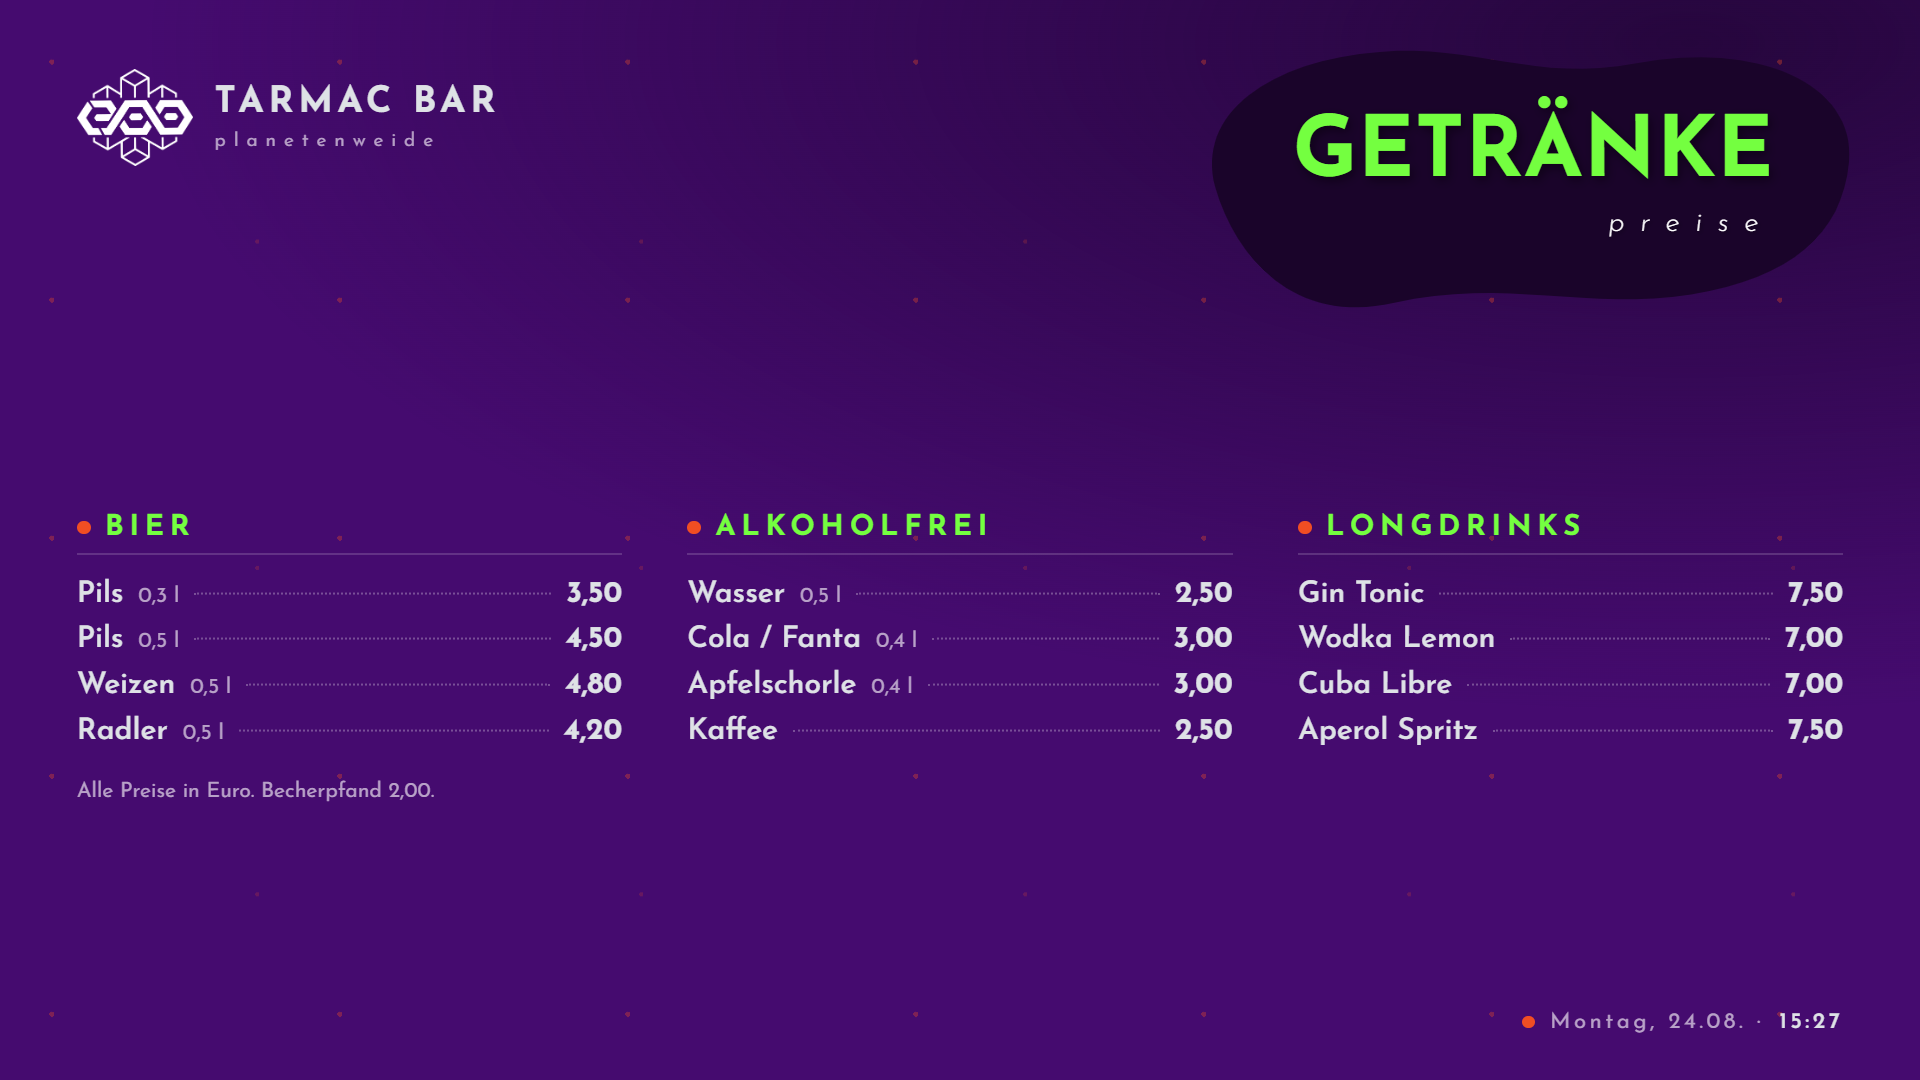
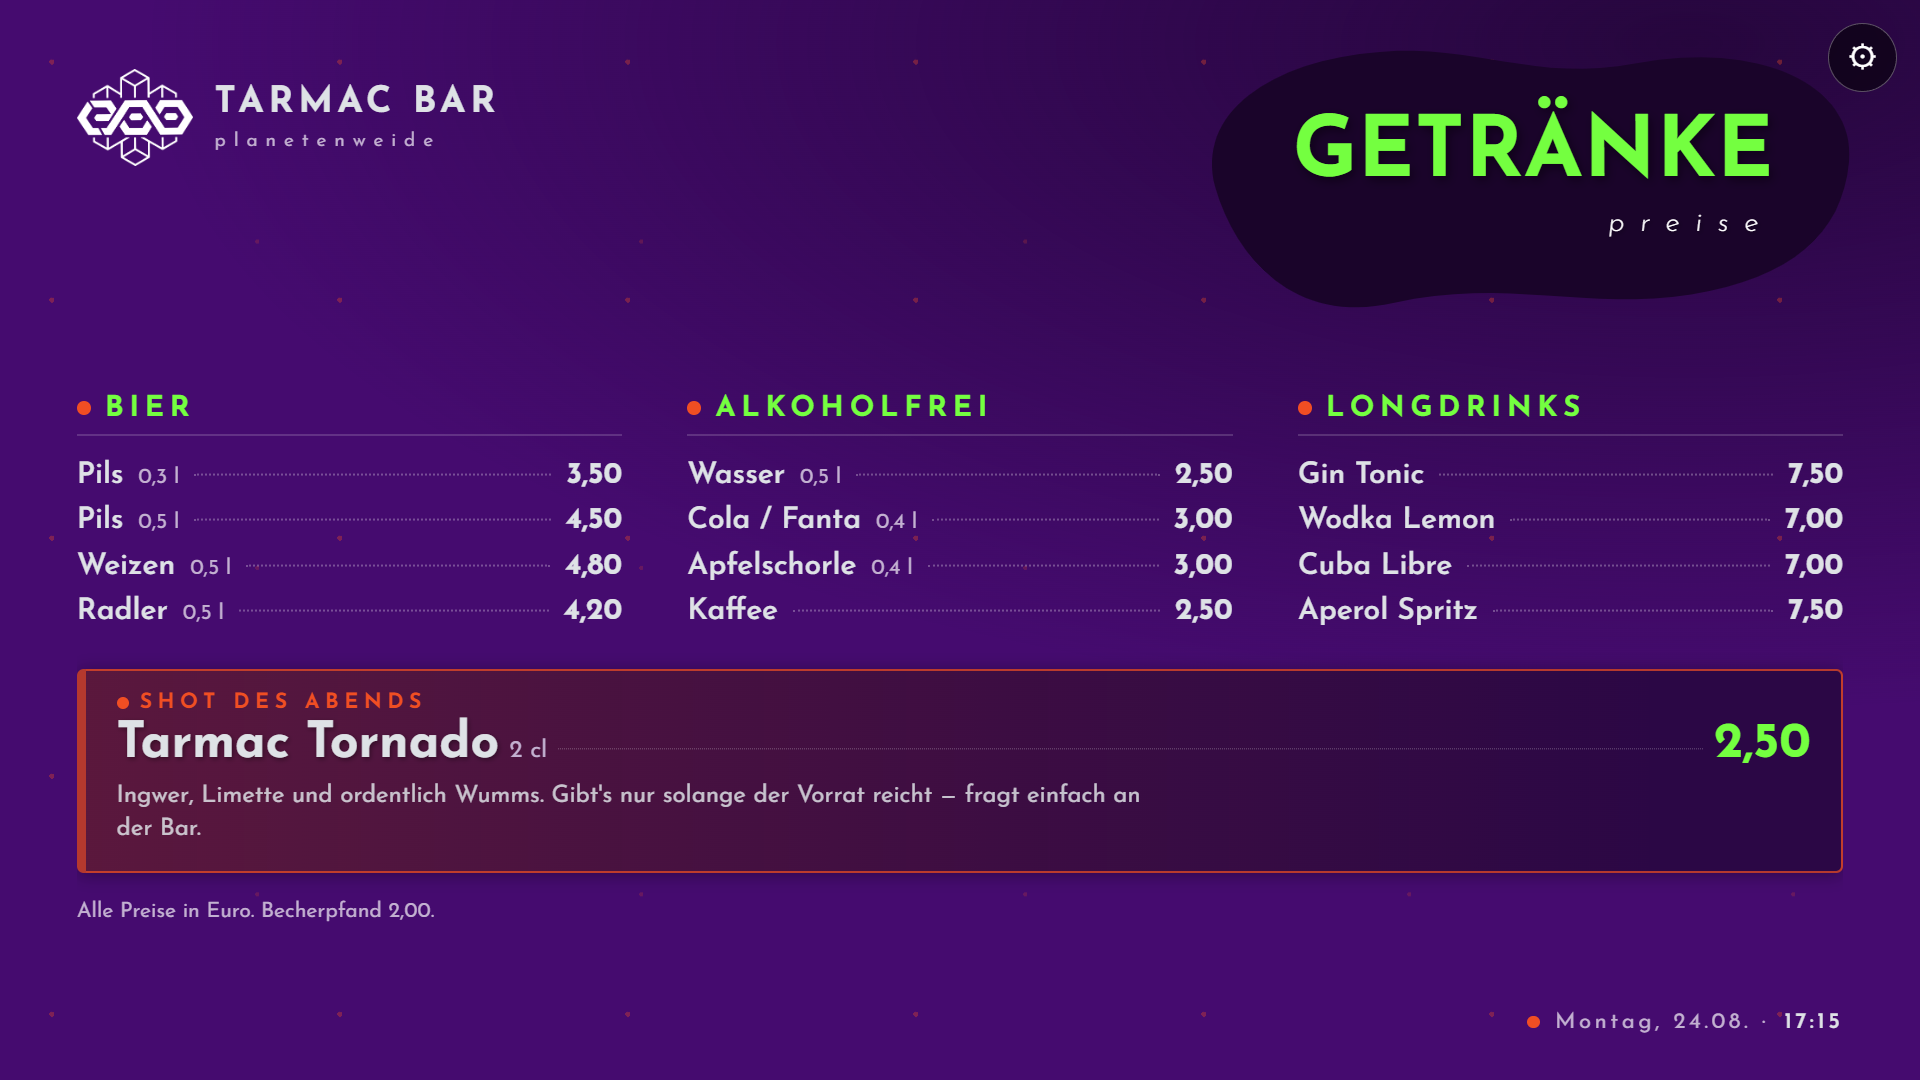
Spezialshot: hervorgehobenes Band unter den Preisspalten
Über die volle Breite, in der Signalfarbe abgesetzt, mit eigener Überschrift,
Name, Größe, Preis und einem mehrzeiligen Beschreibungstext. Gedacht für den
Shot des Abends oder eine Aktion, die in der normalen Karte untergehen würde.

- eigener Block in der Konfiguration, per Haken an- und abschaltbar
- Überschrift frei wählbar, also auch AKTION oder HAPPY HOUR
- der Preis-Slide erscheint jetzt auch dann, wenn nur der Spezialshot
  gepflegt ist und noch keine Gruppen angelegt sind
- Karte im Reiter Getränkepreise, README und Screenshots aktualisiert

diff --git a/src/player.css b/src/player.css
@@ -409,6 +409,76 @@ body[data-pattern="confetti"] .slide {
 
 .priceNote { margin-top: 1.3em; font-size: 1.1em; color: var(--muted); }
 
+/* --------------------- Spezialshot ---------------------------------- */
+/* Volle Breite unter den Spalten, in der Signalfarbe abgesetzt, damit er
+   sich klar von der normalen Karte unterscheidet. */
+.special {
+  margin-top: 1.8em;
+  padding: 1.1em 1.6em 1.25em;
+  border-radius: 0.35em;
+  border: 0.11em solid color-mix(in srgb, var(--accent2) 70%, transparent);
+  border-left-width: 0.5em;
+  background:
+    linear-gradient(90deg,
+      color-mix(in srgb, var(--accent2) 24%, transparent),
+      color-mix(in srgb, var(--accent2) 8%, transparent) 55%,
+      transparent 90%),
+    color-mix(in srgb, var(--bg) 62%, #000);
+  box-shadow: 0 0.12em 0.9em rgba(0, 0, 0, 0.35);
+}
+
+.specialTag {
+  display: inline-flex;
+  align-items: center;
+  gap: 0.5em;
+  font-size: 1.1em;
+  font-weight: 700;
+  letter-spacing: 0.26em;
+  color: var(--accent2);
+}
+.specialTag::before {
+  content: '';
+  width: 0.6em;
+  height: 0.6em;
+  border-radius: 50%;
+  background: var(--accent2);
+}
+
+.specialRow {
+  display: flex;
+  align-items: baseline;
+  gap: 0.55em;
+  margin-top: 0.25em;
+}
+.specialName {
+  font-size: 2.6em;
+  font-weight: 700;
+  line-height: 1.05;
+  text-shadow: 0.03em 0.04em 0.1em rgba(0, 0, 0, 0.4);
+}
+.specialSize { font-size: 1.25em; color: var(--muted); white-space: nowrap; }
+.specialDots {
+  flex: 1;
+  border-bottom: 0.06em dotted rgba(255, 255, 255, 0.3);
+  transform: translateY(-0.4em);
+  min-width: 1.5em;
+}
+.specialPrice {
+  font-size: 2.6em;
+  font-weight: 700;
+  font-variant-numeric: tabular-nums;
+  color: var(--accent);
+  white-space: nowrap;
+}
+.specialText {
+  margin-top: 0.35em;
+  font-size: 1.25em;
+  line-height: 1.4;
+  color: var(--fg);
+  opacity: 0.85;
+  max-width: 70ch;
+}
+
 /* ------------------------------- Fuß ------------------------------- */
 .slideFoot {
   flex: none;

diff --git a/src/player.js b/src/player.js
@@ -98,7 +98,9 @@ function buildPlaylist() {
   const active = (cfg.videos || []).filter(v => isVideoActive(v, now));
 
   const hasTT = (cfg.timetable || []).length > 0;
-  const hasPR = (cfg.prices || []).some(c => (c.items || []).length > 0);
+  const sp = cfg.special || {};
+  const hasPR = (cfg.prices || []).some(c => (c.items || []).length > 0) ||
+                (sp.enabled && sp.name);
 
   const items = [];
   for (const v of active) {
@@ -492,12 +494,34 @@ function renderPrices() {
     body += '</div>';
   }
   body += '</div>';
+  if (!cats.length) body = '';
+
+  body += renderSpecial();
+
   if (s.priceNote) body += '<div class="priceNote">' + escapeHtml(s.priceNote) + '</div>';
-  if (!cats.length) body = '<div class="emptyNote">Preisliste noch nicht eingepflegt.</div>';
+  if (!cats.length && !body.trim()) {
+    body = '<div class="emptyNote">Preisliste noch nicht eingepflegt.</div>';
+  }
 
   return '<div class="slideInner">' +
     headHtml(s.pricesTitle || 'GETRÄNKE', s.pricesSubtitle) +
     '<div class="slideBody center">' + body + '</div>' + footHtml() + '</div>';
+}
+
+// Spezialshot: volle Breite, unter den Spalten, deutlich abgesetzt
+function renderSpecial() {
+  const sp = cfg.special || {};
+  if (!sp.enabled || !sp.name) return '';
+  return '<div class="special">' +
+    '<div class="specialTag">' + escapeHtml(sp.label || 'SPEZIALSHOT') + '</div>' +
+    '<div class="specialRow">' +
+      '<span class="specialName">' + escapeHtml(sp.name) + '</span>' +
+      (sp.size ? '<span class="specialSize">' + escapeHtml(sp.size) + '</span>' : '') +
+      '<span class="specialDots"></span>' +
+      (sp.price ? '<span class="specialPrice">' + escapeHtml(sp.price) + '</span>' : '') +
+    '</div>' +
+    (sp.text ? '<div class="specialText">' + escapeHtml(sp.text) + '</div>' : '') +
+    '</div>';
 }
 
 function renderIdle() {

diff --git a/src/settings.html b/src/settings.html
@@ -91,6 +91,41 @@
       </div>
       <div id="priceList" class="list"></div>
       <div id="priceEmpty" class="empty hidden">Noch keine Preisgruppen angelegt.</div>
+
+      <div class="card" style="margin-top:1.2rem">
+        <h2>Spezialshot</h2>
+        <p class="hint" style="margin-bottom:0.9rem">Wird unter den Preisspalten
+           &uuml;ber die volle Breite hervorgehoben &ndash; f&uuml;r den Shot des Abends
+           oder eine Aktion.</p>
+        <label class="checkline">
+          <input type="checkbox" id="sp_enabled"> <span>Spezialshot anzeigen</span>
+        </label>
+        <div class="twoCol">
+          <label class="field">
+            <span>&Uuml;berschrift</span>
+            <input type="text" id="sp_label" maxlength="30" placeholder="SPEZIALSHOT">
+          </label>
+          <label class="field">
+            <span>Name</span>
+            <input type="text" id="sp_name" maxlength="60" placeholder="z.B. Tarmac Tornado">
+          </label>
+        </div>
+        <div class="twoCol">
+          <label class="field">
+            <span>Gr&ouml;&szlig;e (optional)</span>
+            <input type="text" id="sp_size" maxlength="20" placeholder="2 cl">
+          </label>
+          <label class="field">
+            <span>Preis</span>
+            <input type="text" id="sp_price" maxlength="20" placeholder="2,50">
+          </label>
+        </div>
+        <label class="field">
+          <span>Beschreibung</span>
+          <textarea id="sp_text" rows="3" maxlength="300"
+                    placeholder="z.B. Ingwer, Limette und ordentlich Wumms. Nur solange der Vorrat reicht."></textarea>
+        </label>
+      </div>
     </section>
 
     <!-- ------------------------------------------------------------- -->

diff --git a/src/settings.js b/src/settings.js
@@ -277,6 +277,7 @@ function fillSettingsFields() {
   $('s_showClock').checked = !!s.showClock;
   renderLogoPreview();
   renderFontState();
+  fillSpecialFields();
 
   for (const k of NUM_FIELDS) {
     const el = $('s_' + k);
@@ -648,6 +649,37 @@ function ttRow(e, i) {
 
 function fileSrc(dir, file) {
   return 'file:///' + encodeURI(String(dir).replace(/\\/g, '/') + '/' + file);
+}
+
+// Spezialshot: eigener Block in der Konfiguration, deshalb eigene Verdrahtung
+const SPECIAL_TEXT = ['label', 'name', 'size', 'price', 'text'];
+
+function fillSpecialFields() {
+  state.special = state.special || {};
+  const sp = state.special;
+
+  $('sp_enabled').checked = !!sp.enabled;
+  for (const k of SPECIAL_TEXT) {
+    const el = $('sp_' + k);
+    if (el) el.value = sp[k] != null ? sp[k] : '';
+  }
+
+  if (!$('sp_enabled').dataset.wired) {
+    $('sp_enabled').dataset.wired = '1';
+    $('sp_enabled').addEventListener('change', (e) => {
+      state.special.enabled = e.target.checked;
+      markDirty();
+    });
+  }
+  for (const k of SPECIAL_TEXT) {
+    const el = $('sp_' + k);
+    if (!el || el.dataset.wired) continue;
+    el.dataset.wired = '1';
+    el.addEventListener('input', () => {
+      state.special[k] = el.value;
+      markDirty();
+    });
+  }
 }
 
 function renderLogoPreview() {

diff --git a/src/settings.css b/src/settings.css
@@ -91,7 +91,7 @@ h2 { font-size: 14px; font-weight: 700; letter-spacing: 0.06em; text-transform: 
 .hidden { display: none !important; }
 
 /* ------------------------------- Inputs ------------------------------ */
-input[type=text], input[type=number], input[type=time], input[type=date], select {
+input[type=text], input[type=number], input[type=time], input[type=date], select, textarea {
   background: var(--bg);
   border: 1px solid var(--line);
   border-radius: 7px;
@@ -279,3 +279,5 @@ input[type=color] { padding: 2px; height: 34px; width: 70px; background: var(--b
 
 .vDur { display: flex; align-items: center; gap: 0.4rem; font-size: 12px; color: var(--muted); white-space: nowrap; }
 .vDur input { width: 68px; }
+
+textarea { resize: vertical; min-height: 66px; line-height: 1.45; font-family: inherit; }

diff --git a/main.js b/main.js
@@ -63,7 +63,16 @@ const DEFAULT_CONFIG = {
   },
   videos: [],
   timetable: [],
-  prices: []
+  prices: [],
+  // Hervorgehobener Shot unter den Preisspalten
+  special: {
+    enabled: false,
+    label: 'SPEZIALSHOT',
+    name: '',
+    size: '',
+    price: '',
+    text: ''
+  }
 };
 
 function deepMerge(base, over) {

diff --git a/README.md b/README.md
@@ -31,6 +31,8 @@ Getränkepreise im Festival-Design.
 - **Timetable** mit Datum, Uhrzeit, Act und optionalem Foto. Die Anzeige hebt den
   laufenden Act hervor und zeigt darunter die nächsten. Vergangenes verschwindet von selbst.
 - **Getränkepreise** in Gruppen, mit Größe und Preis.
+- **Spezialshot** – ein hervorgehobenes Band über die volle Breite unter den
+  Preisspalten, mit eigener Überschrift, Preis und Beschreibungstext.
 - **Häufigkeit einstellbar** – z. B. Timetable nach je 3 Beiträgen, Preise nach je 5.
 - **Festival-Design** in Purpur, Neongrün und Signalorange, mit Josefin Sans.
   Farben, Titel, Muster und Titelfläche sind einstellbar.
@@ -149,6 +151,10 @@ Die Gruppen stehen nebeneinander, die Anzahl der Spalten richtet sich nach dem P
 Passt die Karte nicht auf den Bildschirm, verkleinert sich die Schrift automatisch,
 bis alles zu sehen ist – abgeschnitten wird nie.
 
+Darunter liegt optional der **Spezialshot**: ein Band über die volle Breite in der
+Signalfarbe, mit Überschrift, Name, Preis und einem Beschreibungstext. Gedacht für den
+Shot des Abends oder eine Aktion, die nicht in der normalen Karte untergehen soll.
+
 ![Preis-Anzeige](docs/screenshots/anzeige-preise.png)
 
 ### Standbilder
@@ -223,6 +229,11 @@ erkennt den Tageswechsel selbst.
 Gruppen wie *Bier*, *Alkoholfrei* oder *Longdrinks*, darin je ein Getränk pro Zeile mit
 Name, Größe und Preis. Die Größe darf leer bleiben. Die Reihenfolge der Gruppen lässt
 sich mit den Pfeilen ändern.
+
+Ganz unten steht die Karte **Spezialshot**. Einmal den Haken setzen, dann Überschrift,
+Name, Größe, Preis und Beschreibung eintragen – fertig. Ohne Haken erscheint das Band
+gar nicht. Die Überschrift ist frei wählbar, also auch *AKTION*, *HAPPY HOUR* oder was
+sonst passt.
 
 ### Anzeige
 
